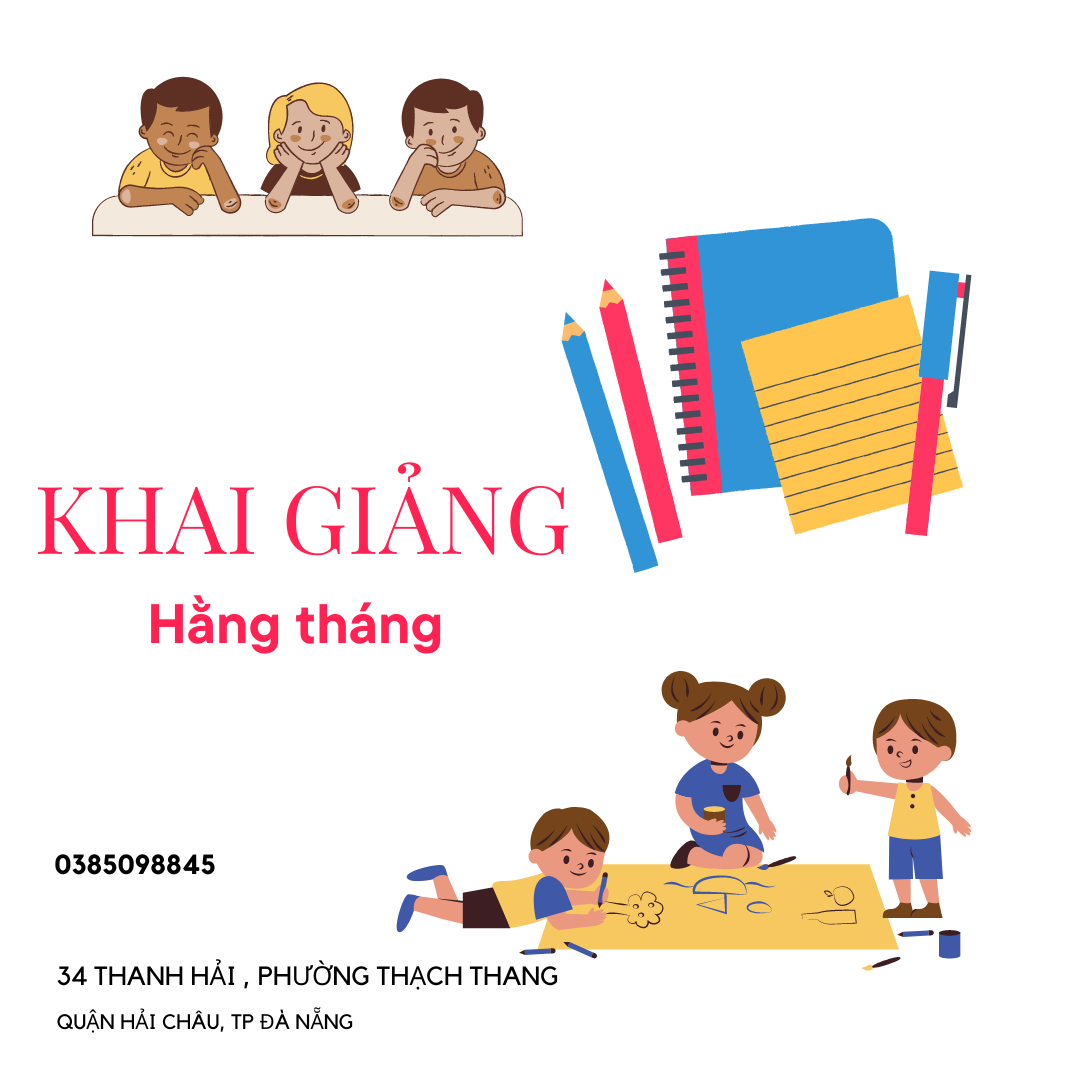
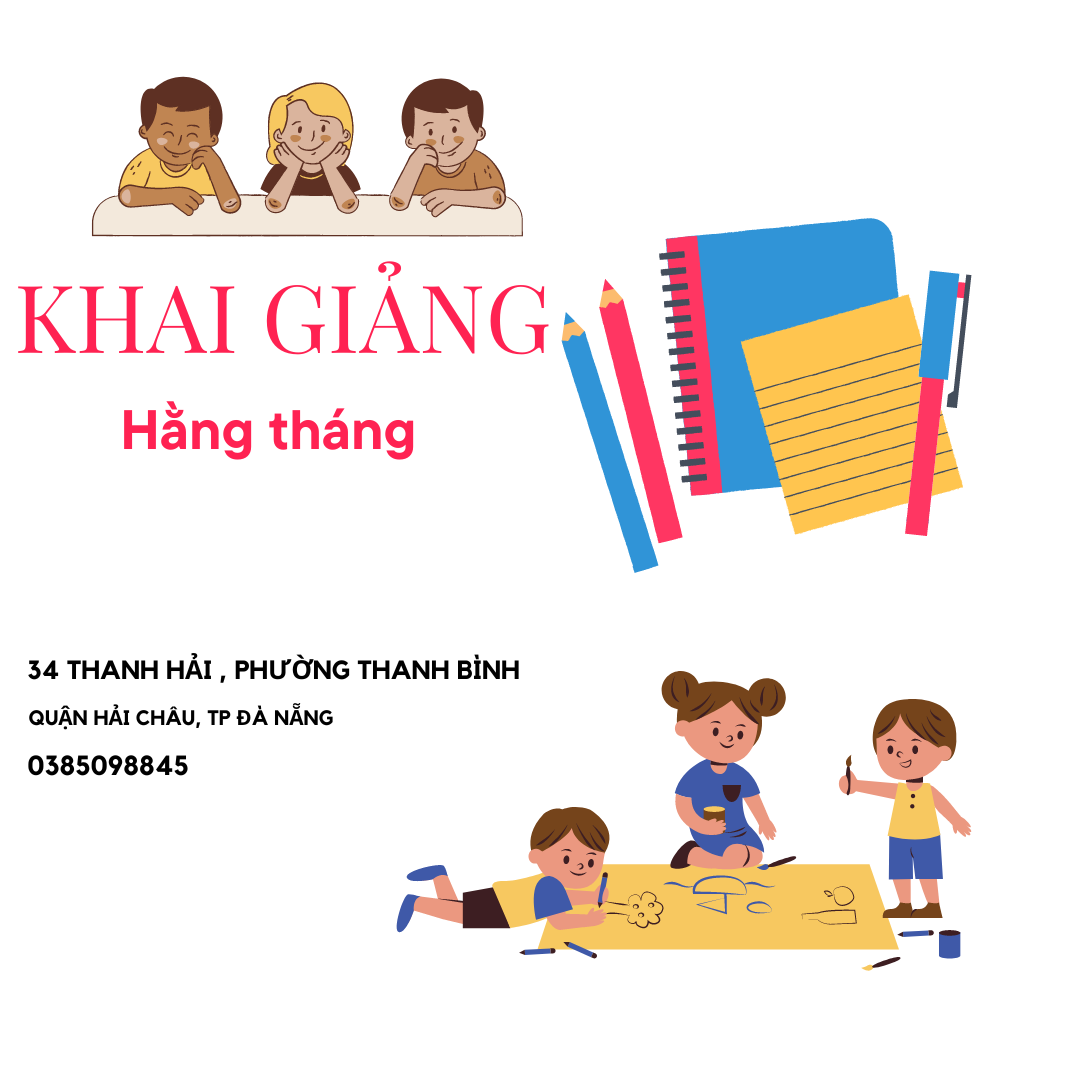
update price

diff --git a/_layouts/contact.html b/_layouts/contact.html
@@ -52,7 +52,7 @@
                 <p class="section-title pr-5"><span class="pr-2">Tại sao chọn CodeKids</span></p>
                 <h1 class="mb-4">Codekids Đà Nẵng</h1>
                 <ul>
-                   <li> Địa chỉ: 34 Thanh Hải, Phường Thạch Thang, Quận Hải Châu, TP Đà Nẵng </li>
+                   <li> Địa chỉ: 34 Thanh Hải, Phường Thanh Bình, Quận Hải Châu, TP Đà Nẵng </li>
                     <li> Điện thoại: 0385098845 </li>
                     <li> Email: codekids@gmail.com </li>
                     <li> Website: https://codekids.asia </li>
@@ -68,7 +68,7 @@
 
      <div class="row align-items-center">
 
-         <iframe src="https://www.google.com/maps/embed?pb=!1m18!1m12!1m3!1d3833.6791037233706!2d108.21073355058898!3d16.082133488818357!2m3!1f0!2f0!3f0!3m2!1i1024!2i768!4f13.1!3m3!1m2!1s0x31421840b14d0989%3A0xe4791218adb33cc!2zNzEgVGhhbmggSOG6o2ksIFRoYW5oIELDrG5oLCBI4bqjaSBDaMOidSwgxJDDoCBO4bq1bmcgNTUwMDAwLCBWaWV0bmFt!5e0!3m2!1sen!2s!4v1665286362874!5m2!1sen!2s" width="600" height="450" style="border:0;" allowfullscreen="" loading="lazy" referrerpolicy="no-referrer-when-downgrade"></iframe>
+        <iframe src="https://www.google.com/maps/embed?pb=!1m18!1m12!1m3!1d3833.703372514231!2d108.21037731469458!3d16.080875343397366!2m3!1f0!2f0!3f0!3m2!1i1024!2i768!4f13.1!3m3!1m2!1s0x31421847477f4fa5%3A0xa661b24933b6d4eb!2zMzQgVGhhbmggSOG6o2ksIFRoYW5oIELDrG5oLCBI4bqjaSBDaMOidSwgxJDDoCBO4bq1bmcgNTUwMDAwLCBWaWV0bmFt!5e0!3m2!1sen!2s!4v1673146319623!5m2!1sen!2s" width="600" height="450" style="border:0;" allowfullscreen="" loading="lazy" referrerpolicy="no-referrer-when-downgrade"></iframe>
      </div>
 
 </div>

diff --git a/_layouts/lichkhaigianglayout.html b/_layouts/lichkhaigianglayout.html
@@ -54,7 +54,7 @@
                 <div class="col-lg-12 mb-5">
                     <div class="card border-0 bg-light shadow-sm pb-2">
                         <img class="card-img-top mb-2" src="{{'/images/lichkhaigiang.png' | prepend: site.baseurl }}" alt="">
-                       <a href="https://codekids.asia/register" class="btn btn-primary px-4 mx-auto mb-4">Đăng ký</a>
+                      
                                            
                     </div>
                 </div>

diff --git a/_layouts/home.html b/_layouts/home.html
@@ -327,7 +327,7 @@
                             <div class="col-7 py-1"> 750.000/Tháng</div>
                         </div>
                     </div>
-                    <a href="https://codekids.asia/register" class="btn btn-primary px-4 mx-auto mb-4">Sắp ra mắt</a>
+                    <a href="https://codekids.asia/register" class="btn btn-primary px-4 mx-auto mb-4">Đăng ký</a>
                 </div>
             </div>
         </div>

diff --git a/_includes/footer.html b/_includes/footer.html
@@ -24,7 +24,7 @@
                 <h4 class="fa fa-map-marker-alt text-primary"></h4>
                 <div class="pl-3">
                     <h5 class="text-white">Địa Chỉ  </h5>
-                    <p> 71 Thanh Hải, Quận Hải Châu, TP Đà Nẵng  </p>
+                    <p> 34 Thanh Hải,Phường Thanh Bình, Quận Hải Châu, TP Đà Nẵng  </p>
                 </div>
             </div>
             <div class="d-flex">
